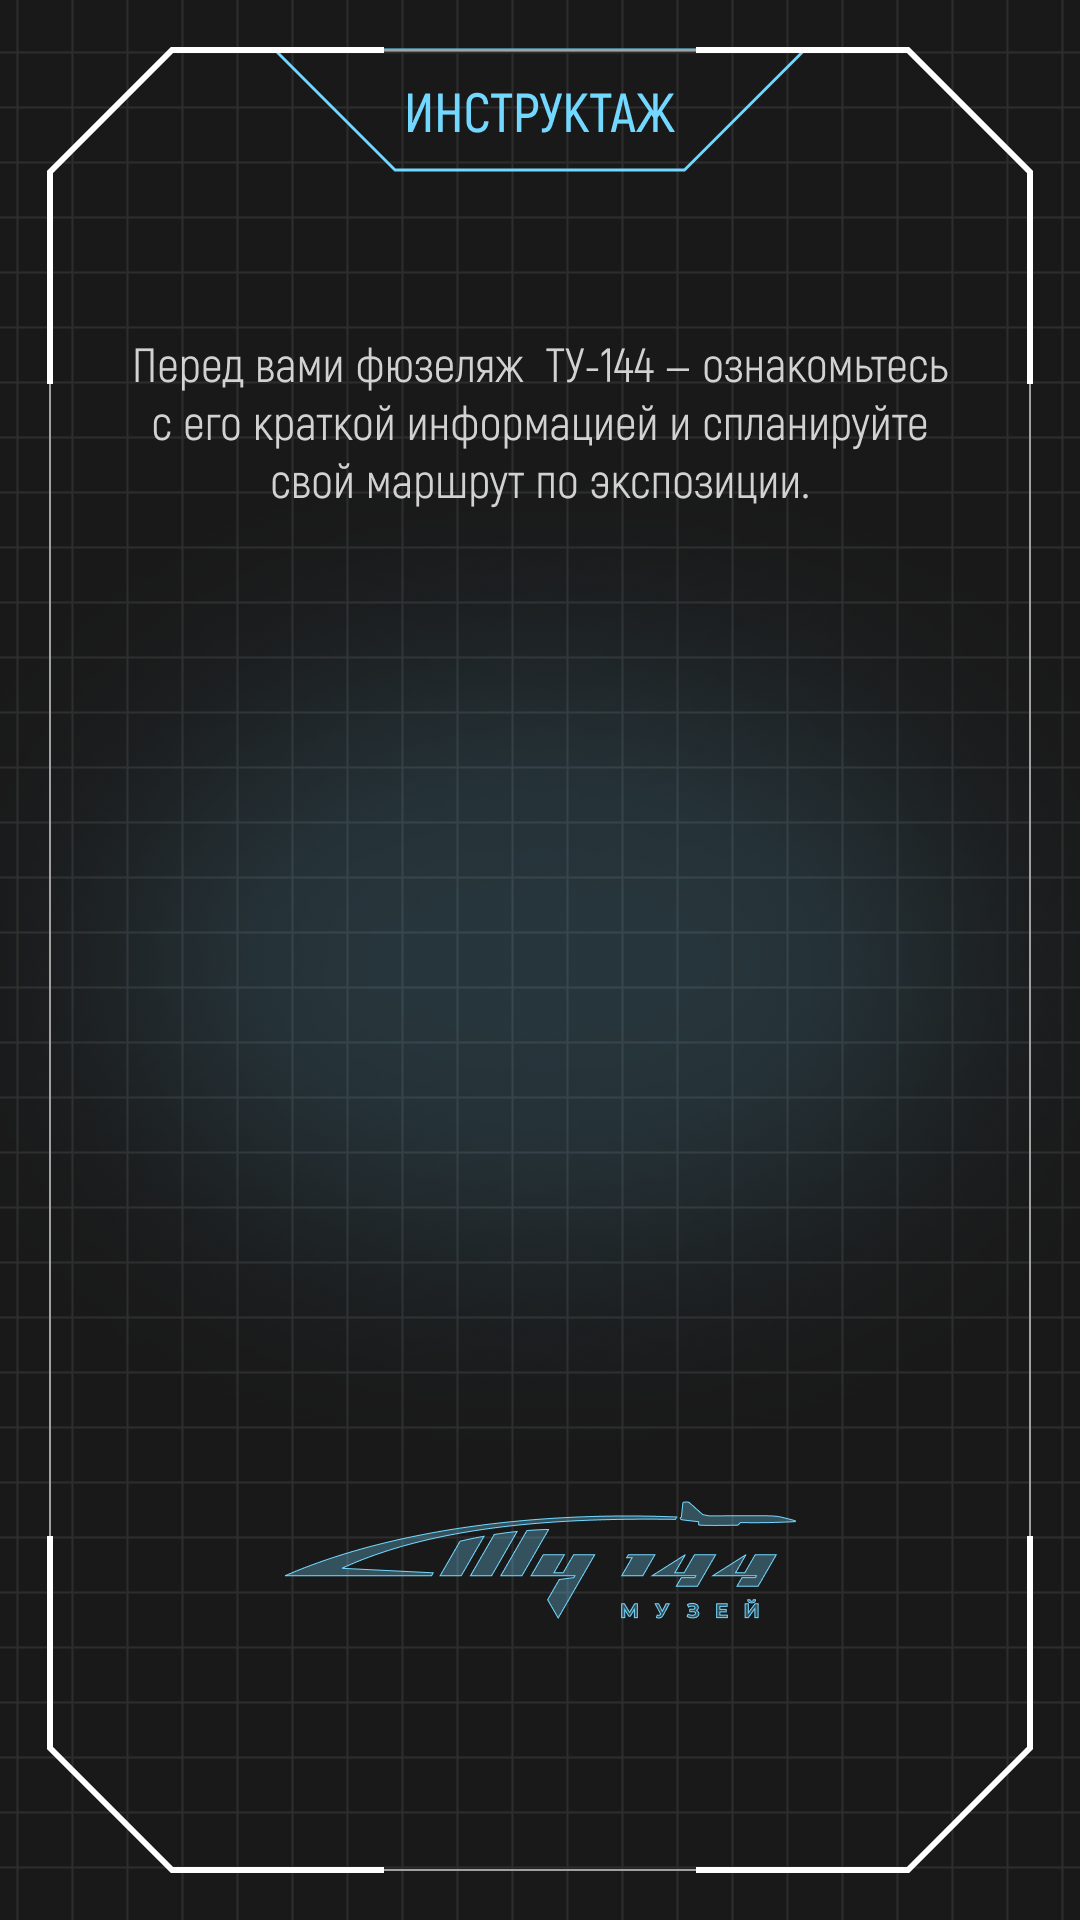
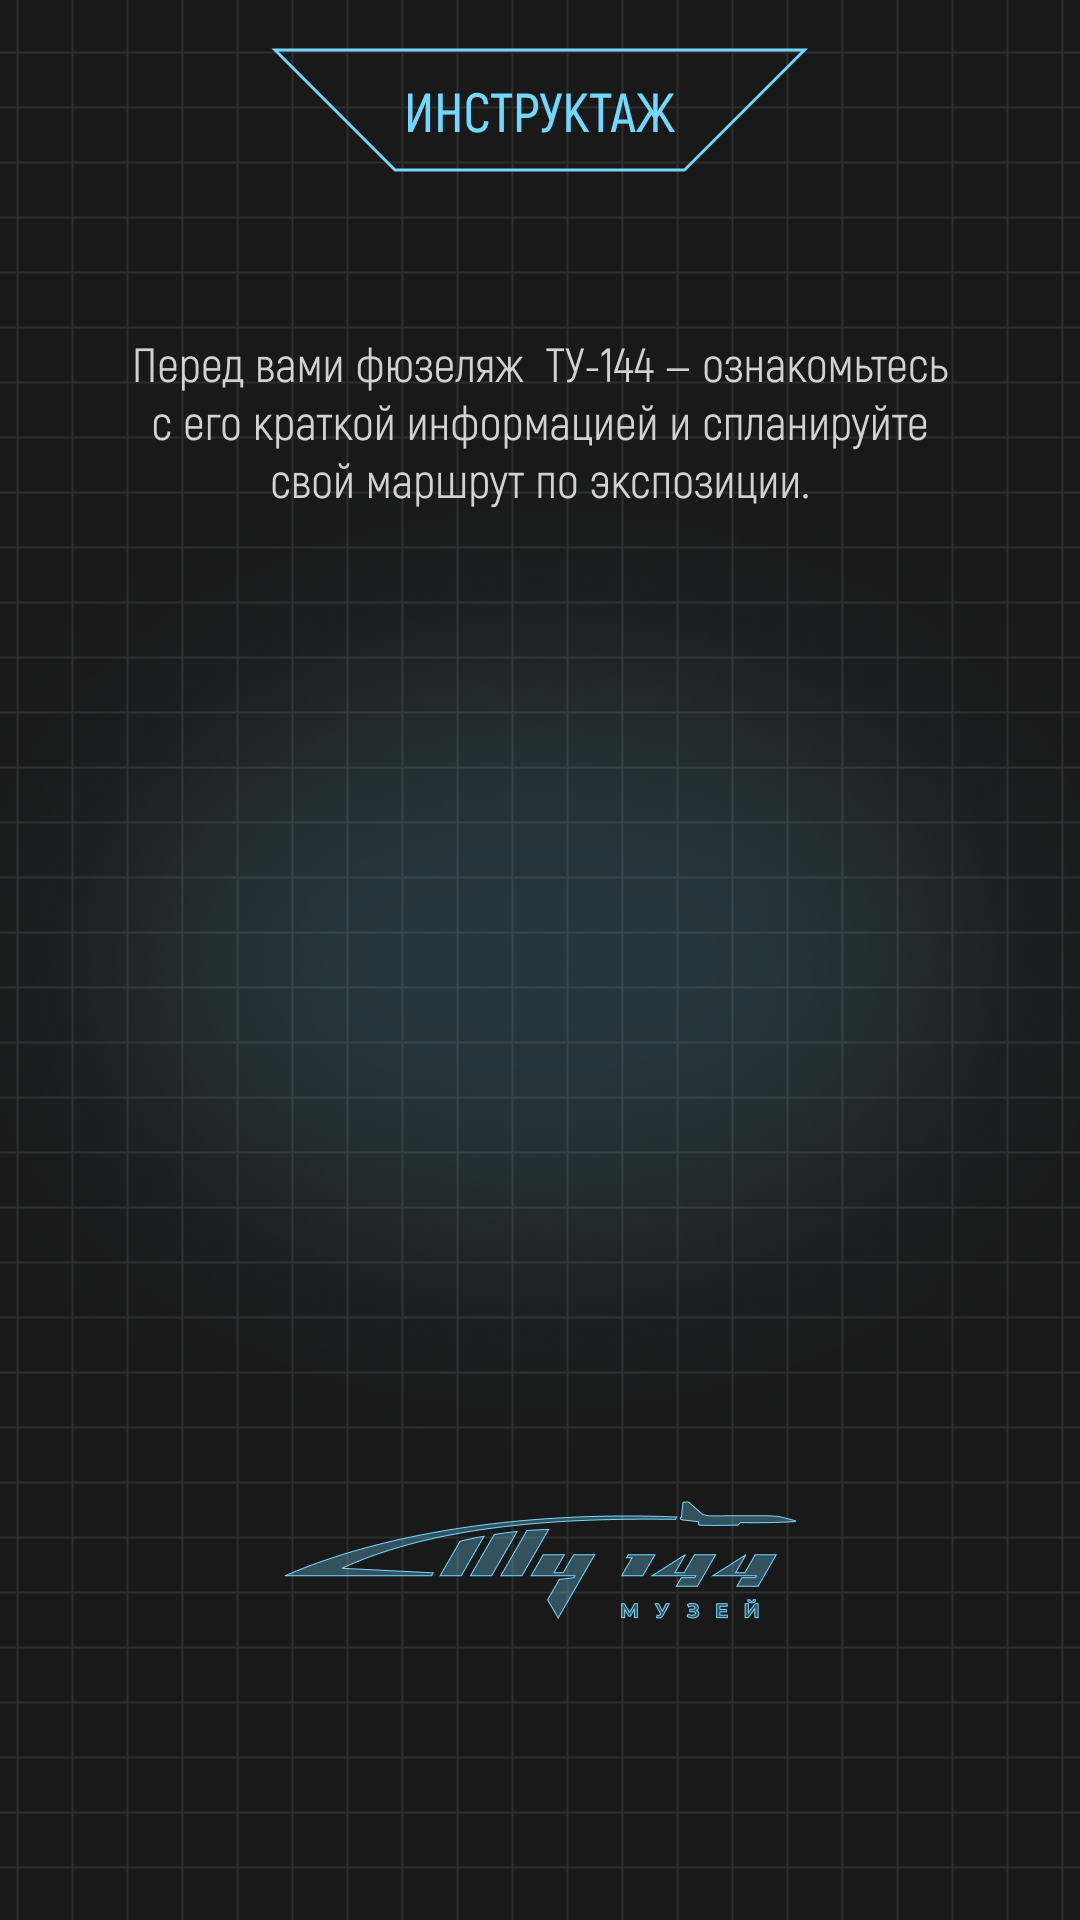
stop: breffeng stop list

diff --git a/Briefing/src/components/Fuselage.jsx b/Briefing/src/components/Fuselage.jsx
@@ -7,14 +7,14 @@ import RadionbtnGroup from './RadiobtnGroup.jsx'
 const Fuselage = () => {
   return (
     <div className="relative flex">
-        <div className="relative bg-[url(/fuselage.png)] flex-row h-screen w-screen bg-center  bg-cover">
+        <div className="relative flex-row h-screen w-screen bg-center  bg-cover">
             
 
-            <div className='absolute top-[16%] left-[12%] flex flex-row border-red-500 w-220 h-170 overflow-scroll text' style={{ lineHeight: '1' }}>
+            <div className='absolute top-[16%] left-[10%] flex flex-row border-red-500 w-210 h-170 overflow-scroll text' style={{ lineHeight: '1' }}>
             Фюзеляж Ту-144 представляет собой прочную и аэродинамически выверенную конструкцию, разработанную для сверхзвуковых полётов на скорости до 2 500 км/ч. Его форма и структура обеспечивали минимальное сопротивление воздуха, устойчивость при высоких скоростях и комфорт для пассажиров. Корпус был выполнен из алюминиевых сплавов, способных выдерживать значительные термические и механические нагрузки, возникающие при полётах на больших высотах и скоростях. Особое внимание уделялось прочности силового каркаса и герметичности кабины.
             </div>   
             
-            <div className='absolute flex flex-row top-[53%] left-[10%] border-2 border-gray-500 border-solid w-226 h-150'>
+            <div className='absolute flex flex-row top-[53%] left-[8%] border-2 border-gray-500 border-solid w-226 h-150'>
 
             </div>
 

diff --git a/DisplayNames/client/src/App.js b/DisplayNames/client/src/App.js
@@ -22,8 +22,8 @@ function App() {
       <div
         style={{
           position: 'absolute',
-          scale: 1.773,
-          top: 530,
+          scale: 1.83,
+          top: 540,
           left: 0,
           width: '100%',
           height: '100%',
